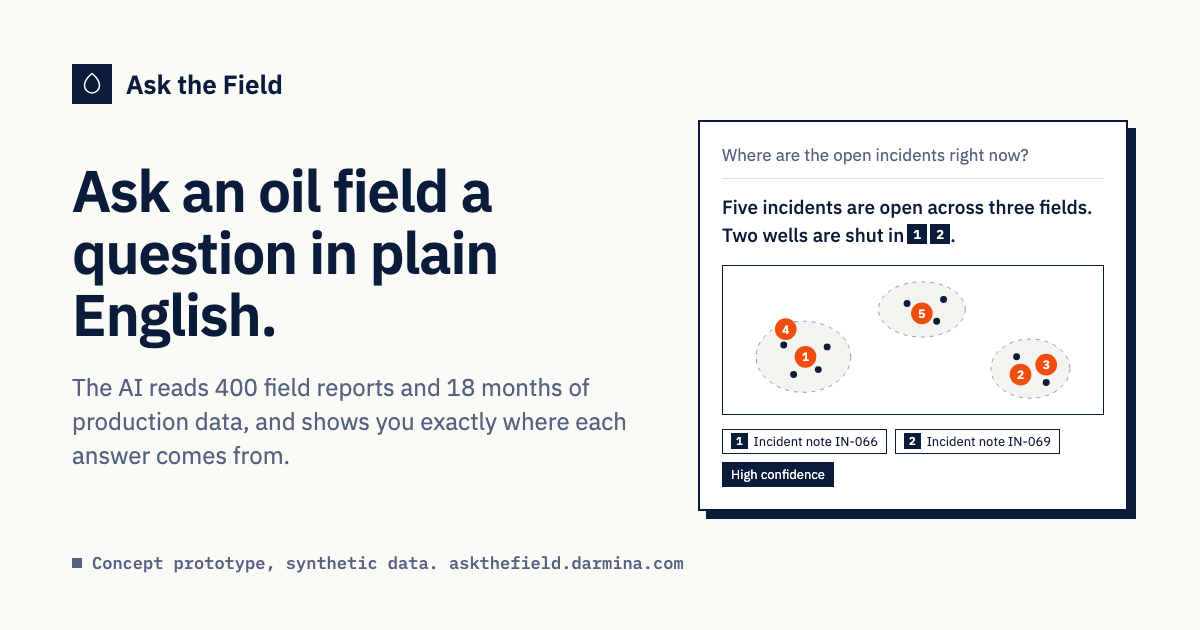
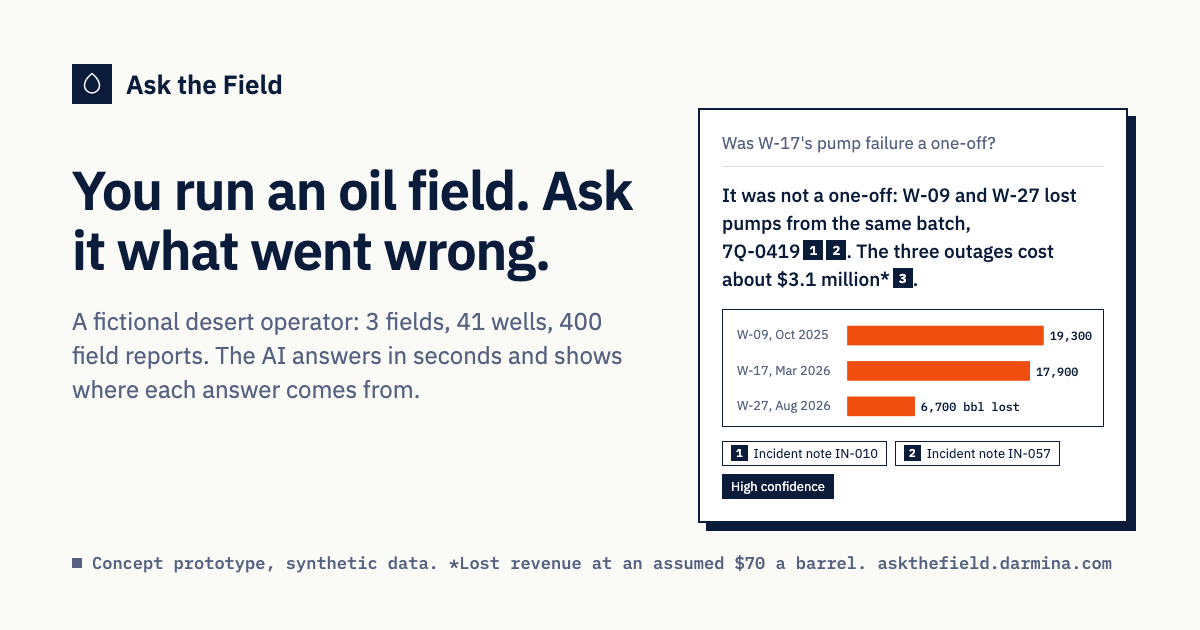
About page and link preview with the new fields, the five stories and the money assumption

diff --git a/app/about/page.tsx b/app/about/page.tsx
@@ -7,6 +7,8 @@ import { Suspense } from "react";
 import { sql } from "@/lib/db";
 import { MODEL } from "@/lib/answer";
 import { EMBEDDING_DIM, EMBEDDING_MODEL } from "@/lib/voyage";
+import { PRICE_NOTE } from "@/lib/money";
+import { SUGGESTED } from "@/lib/questions";
 
 export const metadata: Metadata = { title: "About", description: "What Ask the Field does, why every answer shows its sources, and how it is built." };
 import { shortDate } from "../fmt";
@@ -66,14 +68,14 @@ async function Content() {
         <div className="sec-head"><span className="no caption-3">01</span><h2 id="h-problem" className="heading-5">The problem it solves</h2></div>
         <div className="prose body-3">
           <p>An oil field writes a lot down. Every shift ends with a report. Every incident gets a note. Every repair gets a work order. Next to that, sensors log how much oil, gas and water each well produces, every day.</p>
-          <p>When a manager asks &ldquo;why did this well stop in March?&rdquo;, someone has to dig through folders and spreadsheets to find out. That takes hours, and the answer often depends on who remembers what.</p>
+          <p>When a manager asks &ldquo;why did this well stop in March?&rdquo;, someone has to dig through folders and spreadsheets to find out. That takes hours, and the answer often depends on who remembers what. A problem that repeats across wells, months apart, is often never connected at all.</p>
           <p>Ask the Field does that digging in seconds. You ask in plain English. It finds the few reports and numbers that matter, writes a short answer, and puts the proof next to it.</p>
         </div>
       </section>
 
       <section className="sec" aria-labelledby="h-data">
         <div className="sec-head"><span className="no caption-3">02</span><h2 id="h-data" className="heading-5">What you are looking at</h2></div>
-        <p className="body-3" style={{ maxWidth: 680, marginBottom: "var(--sp-200)" }}>An invented oil field, made up for this demo. No real company, field or well. Every number below is read live from the database.</p>
+        <p className="body-3" style={{ maxWidth: 680, marginBottom: "var(--sp-200)" }}>A fictional oil company in the desert, made up for this demo: three fields named Dune Field, Wadi Field and Salt Flat Field, and the morning of 22 November 2026. No real company, field or well. Every number below is read live from the database.</p>
         <div className="facts">
           <div className="fact"><b>{c.fields}</b><span className="caption-4 mute">oil fields: {c.field_names}</span></div>
           <div className="fact"><b>{c.wells}</b><span className="caption-4 mute">wells</span></div>
@@ -81,6 +83,8 @@ async function Content() {
           <div className="fact"><b>{months}</b><span className="caption-4 mute">months of daily production, {n(c.production_rows)} rows</span></div>
           <div className="fact"><b>{c.events}</b><span className="caption-4 mute">events: {c.incidents} incidents, {c.maintenance} repairs and checks</span></div>
         </div>
+        <p className="body-3" style={{ maxWidth: 680, marginTop: "var(--sp-200)" }}>Five stories run through the tables and the reports: the incidents open this morning, a pump failure on W-17 in March, a repeat failure nobody connected, water rising in Wadi Field, and a sand alarm in Salt Flat Field. The morning briefing on the Ask page asks about each one.</p>
+        <p className="body-3" style={{ maxWidth: 680, marginTop: "var(--sp-100)" }}>Lost oil is the normal rate of the well before an event, times the hours it was offline. Money is {PRICE_NOTE.charAt(0).toLowerCase() + PRICE_NOTE.slice(1)} It is not a real price or a real cost.</p>
         <p className="body-5" style={{ marginTop: "var(--sp-300)" }}>The kinds of reports it reads</p>
         <div className="docs">
           {examples.map((e, i) => (
@@ -126,8 +130,8 @@ async function Content() {
             <rect className="box" x="0" y="55" width="170" height="140" />
             <circle className="num" cx="22" cy="77" r="11" /><text className="numt" x="22" y="81" fontSize="12" textAnchor="middle">1</text>
             <text x="14" y="112" fontSize="16" fontWeight="600">You ask</text>
-            <text className="s" x="14" y="138" fontSize="13">Why did W-17</text>
-            <text className="s" x="14" y="156" fontSize="13">go down in March?</text>
+            <text className="s" x="14" y="138" fontSize="13">Why was W-17</text>
+            <text className="s" x="14" y="156" fontSize="13">down in March?</text>
             <path className="arr" d="M170,125 H206" markerEnd="url(#ah)" />
             <rect className="box" x="210" y="55" width="170" height="140" />
             <circle className="num" cx="232" cy="77" r="11" /><text className="numt" x="232" y="81" fontSize="12" textAnchor="middle">2</text>
@@ -205,7 +209,7 @@ export default function About() {
         <p className="title-2 mute" style={{ marginTop: "var(--sp-100)", fontWeight: 400 }}>Ask an oil field a question in plain English. Get a short answer, the proof behind it, and a clear note on what could not be checked.</p>
         <div className="about-cta">
           <Link className="btn btn-primary button-md" href="/"><ArrowUp weight="bold" aria-hidden />Ask a question</Link>
-          <Link className="btn btn-ghost button-md" href={`/?q=${encodeURIComponent("Why did W-17 go down in March?")}`}><ChatCircleText aria-hidden />See an example</Link>
+          <Link className="btn btn-ghost button-md" href={`/?q=${encodeURIComponent(SUGGESTED[1])}`}><ChatCircleText aria-hidden />See an example</Link>
         </div>
       </div>
       <Suspense fallback={<div className="skel" aria-label="Loading the numbers"><div style={{ height: 120 }} /><div style={{ height: 240 }} /></div>}>

diff --git a/app/layout.tsx b/app/layout.tsx
@@ -9,7 +9,7 @@ const sans = IBM_Plex_Sans({ subsets: ["latin"], weight: ["400", "500", "600"], 
 const mono = IBM_Plex_Mono({ subsets: ["latin"], weight: ["400", "500", "600"], variable: "--font-mono" });
 
 const TITLE = "Ask the Field";
-const DESCRIPTION = "Ask questions about an oil field in plain English. The AI reads 400 field reports and 18 months of production data, and shows where each answer comes from. Concept prototype, synthetic data.";
+const DESCRIPTION = "You run a fictional oil field in the desert: 3 fields, 41 wells, 400 field reports. Ask it what went wrong in plain English; the AI answers in seconds and shows where each answer comes from. Concept prototype, synthetic data.";
 const site = process.env.SITE_URL ?? "https://askthefield.darmina.com";
 
 export const metadata: Metadata = {

diff --git a/AGENTS.md b/AGENTS.md
@@ -11,12 +11,14 @@ Ask the Field. Concept prototype: ask questions of synthetic upstream oil and ga
 - `lib/tools.ts`: the four LLM tools (`query_production`, `list_events`, `search_documents`, `get_wells`) with Zod inputs; `search_documents` records the retrieval trace. A repeated call (same args, or an earlier complete result narrowed by a filter) returns a short note instead of hitting the database, and the next step must answer.
 - `lib/answer.ts`: `ask()` runs `streamText` (AI SDK, `claude-sonnet-5-5`) with the tools and `Output.object` for the final answer, and yields NDJSON events.
 - `app/api/ask/route.ts`: `POST /api/ask { question }`, streams `application/x-ndjson` events: `start`, `tool-call` (with a UI label), `tool-result`, `tool-error`, `fallback`, `final` (answer, viz, sources, confidence, retrieval trace, usage), `error`.
+- `lib/stakes.ts`: the morning snapshot for 22 Nov 2026 (oil yesterday, wells down, open incidents, oil lost this month) and the stakes on the briefing questions, all from the database. Lost oil = normal rate in the 30 days before the event times hours offline. `lib/money.ts`: lost revenue at an assumed $70 a barrel (demo assumption). `lib/questions.ts`: the five briefing questions and the demo pair.
+- `app/scene.tsx`, `app/term.tsx`: the scene above the question bar (role, snapshot, field map), the briefing list and the hover/tap glossary. `/?q=...&demo=1` plays the W-17 question, then the one-off question.
 - `app/page.tsx` + `app/ask.tsx`: Ask page; reads the NDJSON stream, shows live steps, the answer, SVG viz (`app/viz.tsx`) and the "How this answer was built" drawer (`app/drawer.tsx`). `/?q=<question>` asks on load, `&how=1` opens the drawer.
 - `app/human.ts`: plain-English sentences for each live step and its result (the narration and the drawer use them; `label()` in `lib/answer.ts` stays for the eval log). `app/md.tsx`: small Markdown renderer for chunk text (headings, bold, lists, tables), with line highlight for cited passages.
 - Fonts come from `next/font` (IBM Plex, self-hosted) and icons from `@phosphor-icons/react/ssr` (inline SVG). No runtime request to Google Fonts or unpkg.
 - Link preview: `app/opengraph-image.png`, `app/twitter-image.png` (1200x630, rendered with headless Chrome), `app/icon.svg`, `app/apple-icon.png`. `SITE_URL` sets `metadataBase` (default `https://askthefield.darmina.com`).
 - `app/data`, `app/about`, `app/api/data/*`: read-only data browser (documents, chunks with their first vector values, tables) and the About page, all from the database. `/data?chunk=<id>` highlights a chunk.
-- `lib/cache.ts`, `data/cache/*.json`: recorded runs of the 4 suggested questions, replayed when a key is missing, the daily cap or the rate limit is reached, the API fails, or the live answer takes more than 20 s (reason `slow`). The UI labels every replay.
+- `lib/cache.ts`, `data/cache/*.json`: recorded runs of the 5 briefing questions, replayed when a key is missing, the daily cap or the rate limit is reached, the API fails, or the live answer takes more than 20 s (reason `slow`). The UI labels every replay.
 - `lib/guard.ts`: in-memory rate limit per IP (`RATE_LIMIT_PER_MINUTE`, default 6) and daily cap on questions (`LLM_DAILY_CAP`, default 300).
 - `scripts/`: seed, document generation, ingest, search, dump, restore.
 - `data/docs/*.md`: generated documents with YAML front matter. `data/dump.sql.gz`: indexed database.
@@ -32,7 +34,7 @@ Postgres runs in Docker (OrbStack), compose project `opsrag`, container `opsrag-
 - `sec opsrag pnpm ingest`: chunk, embed (voyage-4, 1024 dims) and upsert. Idempotent: only new or changed documents are embedded.
 - `sec opsrag pnpm smoke ["question" ...]`: hybrid search smoke check (defaults to two sample queries).
 - `pnpm db:dump`: write `data/dump.sql.gz` after an ingest.
-- `sec opsrag pnpm eval`: ask the 4 suggested questions plus a Bayda check, print pass/fail, latency, tool calls and tokens. `--only=1,3` runs a subset; `--record` rewrites `data/cache` (answers and query vectors) for the suggested questions that pass.
+- `sec opsrag pnpm eval`: ask the 5 briefing questions, print pass/fail, latency, tool calls and tokens. `--only=1,3` runs a subset; `--record` rewrites `data/cache` (answers and query vectors) for the suggested questions that pass.
 - `pnpm test`: chunker test.
 - `pnpm dev`: Next.js app.
 
